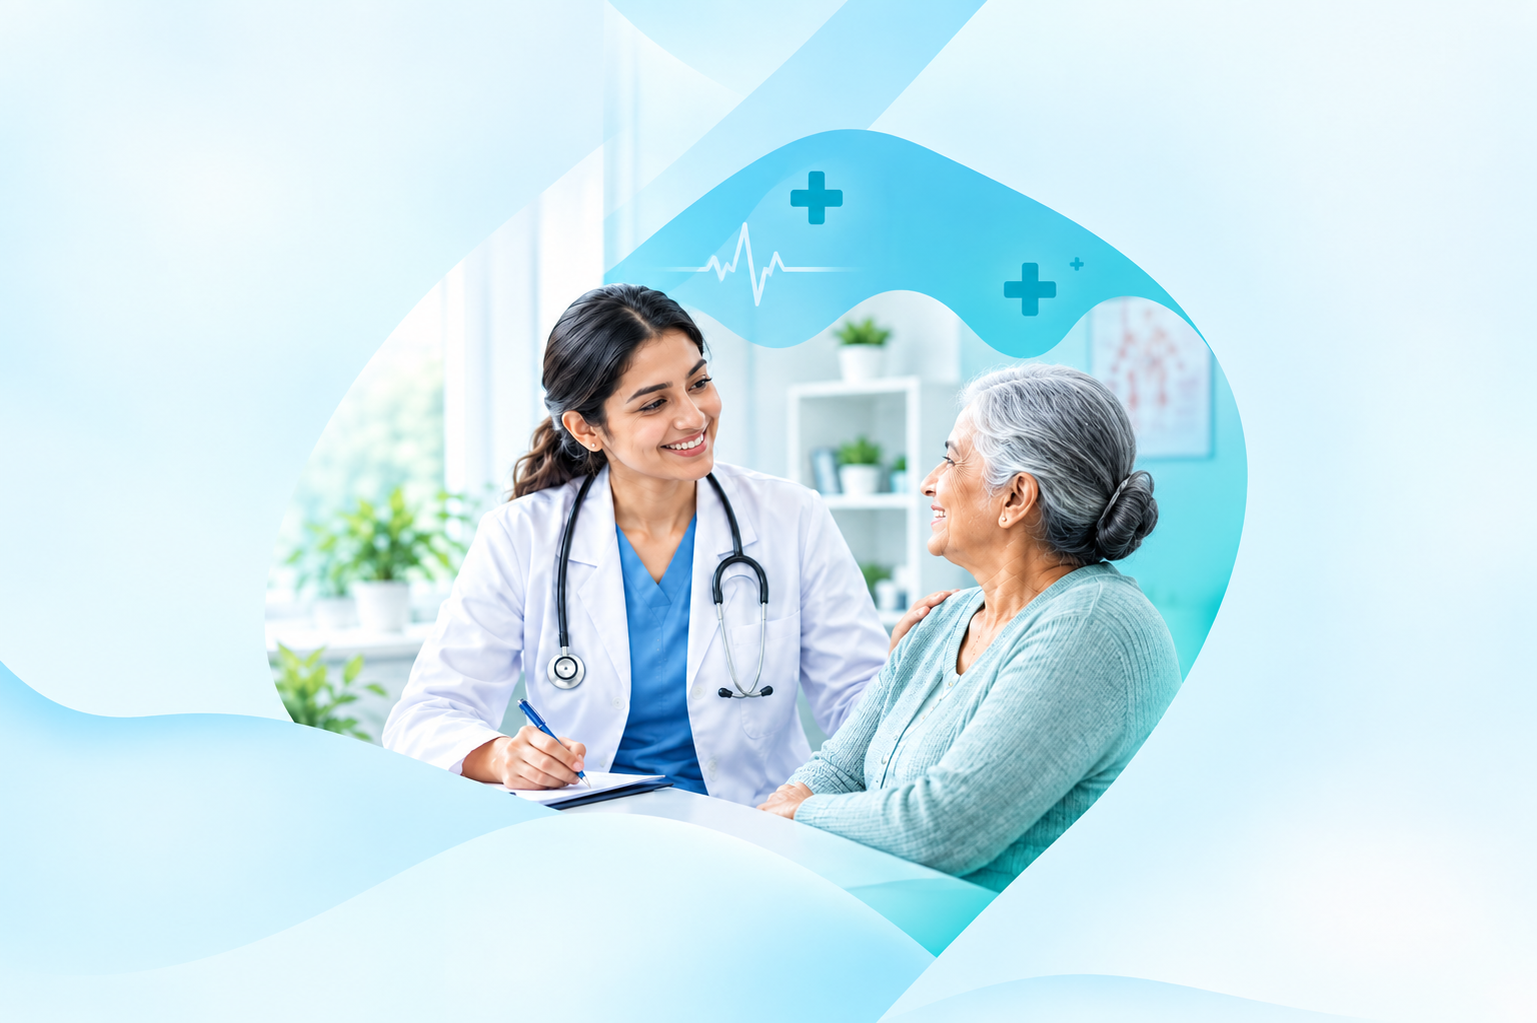
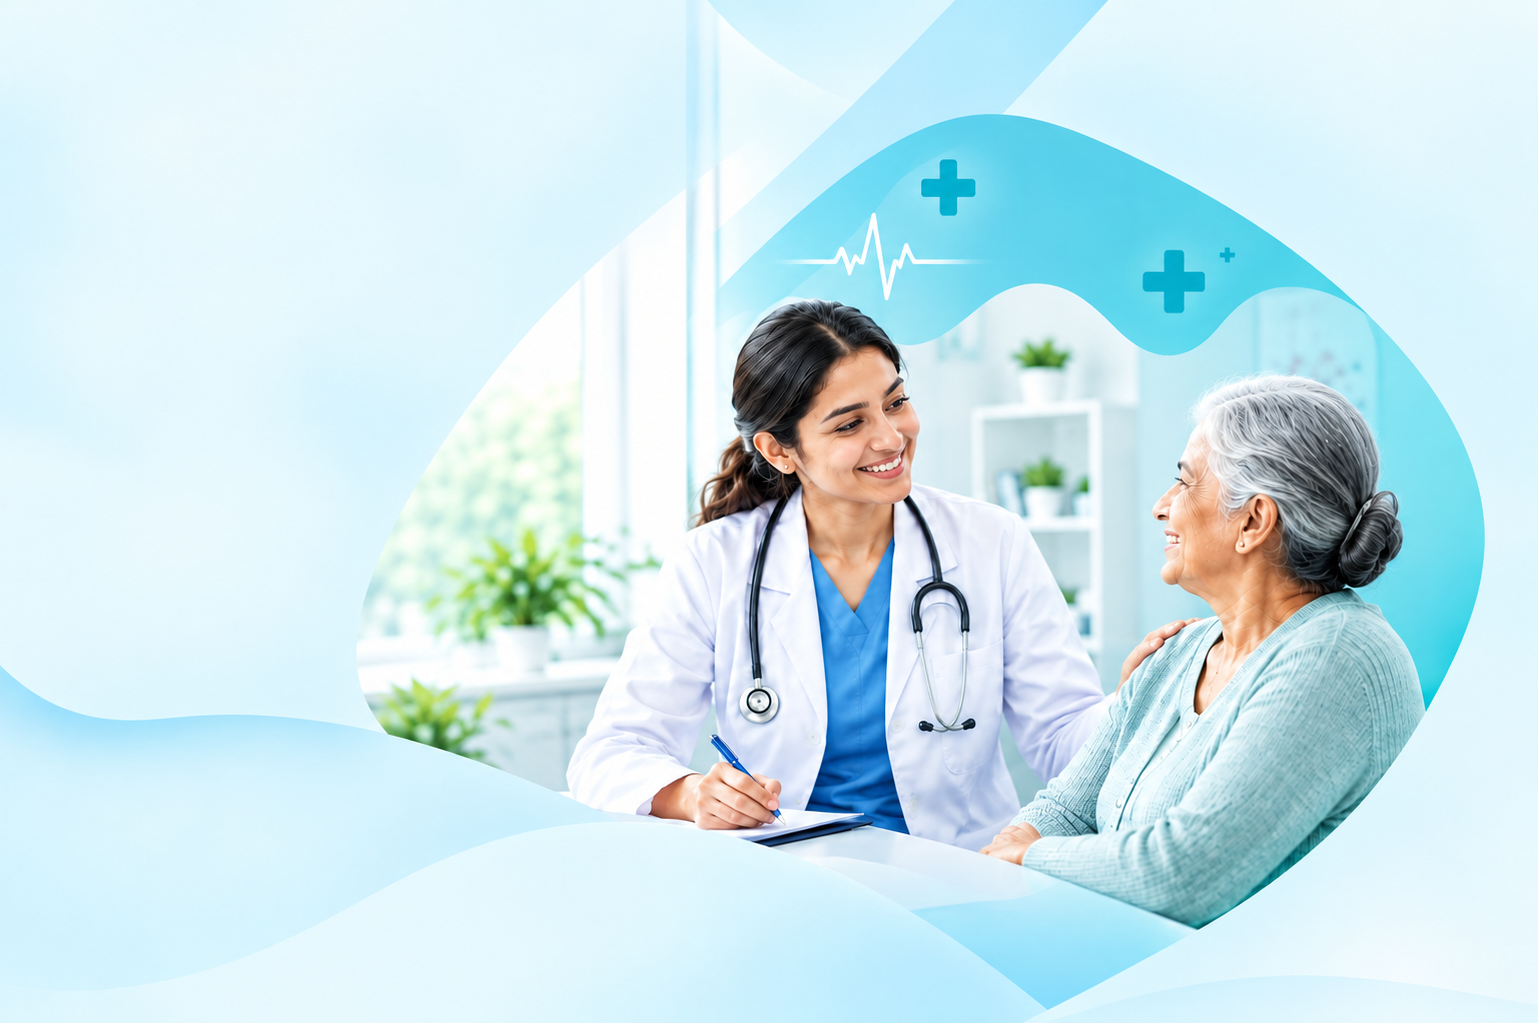
Login ui done signup is in progress

diff --git a/src/components/auth/SignupForm.jsx b/src/components/auth/SignupForm.jsx
@@ -1,0 +1,184 @@
+import React from 'react';
+import { useForm } from 'react-hook-form';
+
+export const SignupForm = () => {
+  const { 
+    register, 
+    handleSubmit, 
+    watch,
+    formState: { errors } 
+  } = useForm({
+    defaultValues: {
+      role: 'PATIENT' // Default form patient ke liye khulega
+    }
+  });
+
+  const selectedRole = watch('role');
+
+  const onSubmit = (data) => {
+    // API call se pehle data format theek karna (Data Sanitization)
+    if (data.doctorProfile && data.doctorProfile.yearOfPassing) {
+      data.doctorProfile.yearOfPassing = Number(data.doctorProfile.yearOfPassing);
+    }
+    
+    // Yahan tumhara poora JSON payload print hoga
+    console.log("🚀 Payload Ready for Backend:", data);
+    alert("Check browser console for the JSON data!");
+  };
+
+  return (
+    <div className="w-full max-w-2xl mx-auto p-8 bg-white rounded-xl shadow-lg mt-10 mb-10 border border-slate-100">
+      <div className="text-center mb-8">
+        <h2 className="text-3xl font-bold text-slate-800">Create NexCare Account</h2>
+        <p className="text-slate-500 mt-2">Join us to start your healthcare journey</p>
+      </div>
+
+      <form onSubmit={handleSubmit(onSubmit)} className="space-y-6">
+        
+        {/* --- 1. COMMON FIELDS --- */}
+        <div className="grid grid-cols-1 md:grid-cols-2 gap-4">
+          <div>
+            <label className="block text-sm font-medium text-slate-700 mb-1">First Name <span className="text-red-500">*</span></label>
+            <input 
+              type="text" 
+              placeholder="John"
+              {...register('firstName', { required: 'First Name is required' })} 
+              className={`w-full px-4 py-2 border rounded-lg focus:outline-none focus:ring-2 focus:ring-teal-500 ${errors.firstName ? 'border-red-500' : 'border-slate-300'}`}
+            />
+            {errors.firstName && <p className="text-xs text-red-500 mt-1">{errors.firstName.message}</p>}
+          </div>
+          <div>
+            <label className="block text-sm font-medium text-slate-700 mb-1">Last Name <span className="text-red-500">*</span></label>
+            <input 
+              type="text" 
+              placeholder="Doe"
+              {...register('lastName', { required: 'Last Name is required' })} 
+              className={`w-full px-4 py-2 border rounded-lg focus:outline-none focus:ring-2 focus:ring-teal-500 ${errors.lastName ? 'border-red-500' : 'border-slate-300'}`}
+            />
+            {errors.lastName && <p className="text-xs text-red-500 mt-1">{errors.lastName.message}</p>}
+          </div>
+        </div>
+
+        <div className="grid grid-cols-1 md:grid-cols-2 gap-4">
+          <div>
+            <label className="block text-sm font-medium text-slate-700 mb-1">Email Address <span className="text-red-500">*</span></label>
+            <input 
+              type="email" 
+              placeholder="john@example.com"
+              {...register('email', { required: 'Email is required' })} 
+              className={`w-full px-4 py-2 border rounded-lg focus:outline-none focus:ring-2 focus:ring-teal-500 ${errors.email ? 'border-red-500' : 'border-slate-300'}`}
+            />
+            {errors.email && <p className="text-xs text-red-500 mt-1">{errors.email.message}</p>}
+          </div>
+          <div>
+            <label className="block text-sm font-medium text-slate-700 mb-1">Phone Number <span className="text-red-500">*</span></label>
+            <input 
+              type="tel" 
+              placeholder="9876543210"
+              {...register('phoneNumber', { required: 'Phone Number is required' })} 
+              className={`w-full px-4 py-2 border rounded-lg focus:outline-none focus:ring-2 focus:ring-teal-500 ${errors.phoneNumber ? 'border-red-500' : 'border-slate-300'}`}
+            />
+            {errors.phoneNumber && <p className="text-xs text-red-500 mt-1">{errors.phoneNumber.message}</p>}
+          </div>
+        </div>
+
+        <div>
+          <label className="block text-sm font-medium text-slate-700 mb-1">Password <span className="text-red-500">*</span></label>
+          <input 
+            type="password" 
+            placeholder="Create a strong password"
+            {...register('password', { required: 'Password is required', minLength: { value: 6, message: 'Min 6 characters' } })} 
+            className={`w-full px-4 py-2 border rounded-lg focus:outline-none focus:ring-2 focus:ring-teal-500 ${errors.password ? 'border-red-500' : 'border-slate-300'}`}
+          />
+          {errors.password && <p className="text-xs text-red-500 mt-1">{errors.password.message}</p>}
+        </div>
+
+        {/* --- 2. ROLE SELECTION --- */}
+        <div className="bg-slate-50 p-5 rounded-lg border border-slate-200">
+          <label className="block text-base font-semibold text-slate-800 mb-3">I am registering as a:</label>
+          <div className="flex gap-6">
+            <label className="flex items-center gap-2 cursor-pointer bg-white px-4 py-2 rounded-md border shadow-sm hover:bg-slate-50">
+              <input type="radio" value="PATIENT" {...register('role')} className="text-teal-600 focus:ring-teal-500 w-4 h-4" />
+              <span className="font-medium text-slate-700">Patient</span>
+            </label>
+            <label className="flex items-center gap-2 cursor-pointer bg-white px-4 py-2 rounded-md border shadow-sm hover:bg-slate-50">
+              <input type="radio" value="DOCTOR" {...register('role')} className="text-teal-600 focus:ring-teal-500 w-4 h-4" />
+              <span className="font-medium text-slate-700">Doctor</span>
+            </label>
+          </div>
+        </div>
+
+        {/* --- 3. CONDITIONAL FIELDS: PATIENT --- */}
+        {selectedRole === 'PATIENT' && (
+          <div className="space-y-4 bg-teal-50/50 p-5 rounded-lg border border-teal-100 animate-in fade-in zoom-in duration-300">
+            <h3 className="font-semibold text-teal-800 border-b border-teal-200 pb-2">Patient Details</h3>
+            <div className="grid grid-cols-1 md:grid-cols-2 gap-4">
+              <div>
+                <label className="block text-sm font-medium text-slate-700 mb-1">Gender</label>
+                <select {...register('patientProfile.gender')} className="w-full px-4 py-2 border border-slate-300 rounded-lg focus:outline-none focus:ring-2 focus:ring-teal-500 bg-white">
+                  <option value="MALE">Male</option>
+                  <option value="FEMALE">Female</option>
+                  <option value="OTHER">Other</option>
+                </select>
+              </div>
+              <div>
+                <label className="block text-sm font-medium text-slate-700 mb-1">Date of Birth</label>
+                <input type="date" {...register('patientProfile.dateOfBirth')} className="w-full px-4 py-2 border border-slate-300 rounded-lg focus:outline-none focus:ring-2 focus:ring-teal-500 bg-white" />
+              </div>
+            </div>
+          </div>
+        )}
+
+        {/* --- 4. CONDITIONAL FIELDS: DOCTOR --- */}
+        {selectedRole === 'DOCTOR' && (
+          <div className="space-y-4 bg-blue-50/50 p-5 rounded-lg border border-blue-100 animate-in fade-in zoom-in duration-300">
+            <h3 className="font-semibold text-blue-800 border-b border-blue-200 pb-2">Professional Details</h3>
+            <div className="grid grid-cols-1 md:grid-cols-2 gap-4">
+              <div>
+                <label className="block text-sm font-medium text-slate-700 mb-1">Registration No.</label>
+                <input type="text" {...register('doctorProfile.medicalRegistrationNumber')} placeholder="MPMC-2026-10001" className="w-full px-4 py-2 border border-slate-300 rounded-lg focus:ring-2 focus:ring-blue-500" />
+              </div>
+              <div>
+                <label className="block text-sm font-medium text-slate-700 mb-1">Medical Council</label>
+                <input type="text" {...register('doctorProfile.medicalCouncil')} placeholder="M.P. Medical Council" className="w-full px-4 py-2 border border-slate-300 rounded-lg focus:ring-2 focus:ring-blue-500" />
+              </div>
+              <div>
+                <label className="block text-sm font-medium text-slate-700 mb-1">Registration Date</label>
+                <input type="date" {...register('doctorProfile.registrationDate')} className="w-full px-4 py-2 border border-slate-300 rounded-lg focus:ring-2 focus:ring-blue-500" />
+              </div>
+              <div>
+                <label className="block text-sm font-medium text-slate-700 mb-1">Specialization</label>
+                <input type="text" {...register('doctorProfile.specialization')} placeholder="Cardiologist" className="w-full px-4 py-2 border border-slate-300 rounded-lg focus:ring-2 focus:ring-blue-500" />
+              </div>
+              <div>
+                <label className="block text-sm font-medium text-slate-700 mb-1">Primary Qualification</label>
+                <input type="text" {...register('doctorProfile.primaryQualification')} placeholder="MBBS" className="w-full px-4 py-2 border border-slate-300 rounded-lg focus:ring-2 focus:ring-blue-500" />
+              </div>
+              <div>
+                <label className="block text-sm font-medium text-slate-700 mb-1">Additional Qualification</label>
+                <input type="text" {...register('doctorProfile.additionalQualification')} placeholder="MD Medicine" className="w-full px-4 py-2 border border-slate-300 rounded-lg focus:ring-2 focus:ring-blue-500" />
+              </div>
+              <div>
+                <label className="block text-sm font-medium text-slate-700 mb-1">Year of Passing</label>
+                <input type="number" {...register('doctorProfile.yearOfPassing')} placeholder="2018" className="w-full px-4 py-2 border border-slate-300 rounded-lg focus:ring-2 focus:ring-blue-500" />
+              </div>
+              <div>
+                <label className="block text-sm font-medium text-slate-700 mb-1">Place of Work</label>
+                <input type="text" {...register('doctorProfile.placeOfWork')} placeholder="City Care Hospital" className="w-full px-4 py-2 border border-slate-300 rounded-lg focus:ring-2 focus:ring-blue-500" />
+              </div>
+            </div>
+          </div>
+        )}
+
+        <button type="submit" className="w-full bg-teal-600 text-white font-bold text-lg py-3 px-4 rounded-lg hover:bg-teal-700 transition-colors duration-200 mt-6 shadow-md">
+          Complete Registration
+        </button>
+      </form>
+
+      <div className="mt-8 text-center text-sm text-slate-600 border-t pt-6">
+        Already have an account? <span className="text-teal-600 font-semibold cursor-pointer hover:underline">Log in</span>
+      </div>
+    </div>
+  );
+};
+export default SignupForm

diff --git a/src/components/auth/LoginHero.jsx b/src/components/auth/LoginHero.jsx
@@ -4,17 +4,18 @@ import nexcareLogo from '../../assets/logo/nexcare-logo.svg';
 function LoginHero() {
     return (
         <section
-            className="relative hidden lg:flex flex-col justify-between h-full overflow-hidden px-12 py-10 xl:px-20 bg-cover"
+            // Removed rigid negative percentages (-80%)
+            // Using fluid bg-center and shifting slightly right on smaller laptops
+            className="relative flex flex-col justify-between h-full overflow-hidden px-8 lg:px-10 py-10 xl:px-16 bg-cover bg-no-repeat bg-[position:65%_center] xl:bg-center"
             style={{
                 backgroundImage: `url(${doctorPatientImage})`,
-                backgroundPosition: '-80% center',
             }}
         >
-            {/* Gradient overlay for text readability — sits above image, below content */}
+            {/* Gradient overlay for text readability */}
             <div
                 className="absolute inset-0 pointer-events-none"
                 style={{
-                    background: 'linear-gradient(90deg, rgba(239,252,253,0.5) 0%, rgba(239,252,253,0.5) 35%, rgba(239,252,253,0.3) 55%, rgba(239,252,253,0) 80%)',
+                    background: 'linear-gradient(90deg, rgba(239,252,253,0.9) 1%, rgba(239,252,253,0.9) 35%, rgba(239,252,253,0.2) 60%, rgba(239,252,253,0) 100%)',
                 }}
             />
 
@@ -22,93 +23,90 @@ function LoginHero() {
             <div className="relative z-10">
                 <img
                     src={nexcareLogo}
-                    alt="NexCare - Better Health, Brighter Tomorrow"
-                    className="h-16 w-auto"
+                    alt="NexCare"
+                    className="h-12 xl:h-16 w-auto"
                 />
             </div>
 
             {/* Heading + description + features */}
-            <div className="relative z-10 mt-8 xl:mt-10 max-w-[480px]">
+            <div className="relative z-10 mt-8 max-w-[480px]">
 
-                <h1 className="text-5xl xl:text-[56px] font-extrabold leading-[1.05] tracking-tight text-[#0B2D5C]">
+                <h1 className="text-4xl xl:text-[56px] font-extrabold leading-[1.05] tracking-tight text-[#0B2D5C]">
                     Your Health
                     <br />
                     <span className="text-[#10A9A5]">Our Priority</span>
                 </h1>
 
-                <p className="mt-7 max-w-[430px] text-lg leading-7 text-[#47719D]">
+                <p className="mt-6 max-w-[380px] text-base xl:text-lg leading-7 text-[#47719D]">
                     Book appointments, manage your profile,
                     and get quality healthcare — all in one place.
                 </p>
 
-                <div className="mt-6 space-y-4">
-
+                <div className="mt-6 xl:mt-8 space-y-4 xl:space-y-5">
                     {/* Feature 1 */}
                     <div className="flex items-center gap-4">
-                        <div className="flex h-12 w-12 items-center justify-center rounded-full border border-cyan-200 bg-white/70 backdrop-blur">
+                        <div className="flex shrink-0 h-10 w-10 xl:h-12 xl:w-12 items-center justify-center rounded-full border border-cyan-200 bg-white/70 backdrop-blur">
                             <svg className="w-5 h-5 text-[#0BA5A8]" fill="none" viewBox="0 0 24 24" stroke="currentColor" strokeWidth={2}>
                                 <path strokeLinecap="round" strokeLinejoin="round" d="M9 12l2 2 4-4m5.618-4.016A11.955 11.955 0 0112 2.944a11.955 11.955 0 01-8.618 3.04A12.02 12.02 0 003 9c0 5.591 3.824 10.29 9 11.622 5.176-1.332 9-6.03 9-11.622 0-1.042-.133-2.052-.382-3.016z" />
                             </svg>
                         </div>
                         <div>
-                            <p className="font-semibold text-[#0B2D5C]">Trusted Care</p>
-                            <p className="text-sm text-[#5B82AA]">Verified & experienced doctors</p>
+                            <p className="font-semibold text-sm xl:text-base text-[#0B2D5C]">Trusted Care</p>
+                            <p className="text-xs xl:text-sm text-[#5B82AA]">Verified & experienced doctors</p>
                         </div>
                     </div>
 
                     {/* Feature 2 */}
                     <div className="flex items-center gap-4">
-                        <div className="flex h-12 w-12 items-center justify-center rounded-full border border-cyan-200 bg-white/70 backdrop-blur">
+                        <div className="flex shrink-0 h-10 w-10 xl:h-12 xl:w-12 items-center justify-center rounded-full border border-cyan-200 bg-white/70 backdrop-blur">
                             <svg className="w-5 h-5 text-[#0BA5A8]" fill="none" viewBox="0 0 24 24" stroke="currentColor" strokeWidth={2}>
                                 <path strokeLinecap="round" strokeLinejoin="round" d="M12 8v4l3 3m6-3a9 9 0 11-18 0 9 9 0 0118 0z" />
                             </svg>
                         </div>
                         <div>
-                            <p className="font-semibold text-[#0B2D5C]">Easy Booking</p>
-                            <p className="text-sm text-[#5B82AA]">Book appointments in minutes</p>
+                            <p className="font-semibold text-sm xl:text-base text-[#0B2D5C]">Easy Booking</p>
+                            <p className="text-xs xl:text-sm text-[#5B82AA]">Book appointments in minutes</p>
                         </div>
                     </div>
 
                     {/* Feature 3 */}
                     <div className="flex items-center gap-4">
-                        <div className="flex h-12 w-12 items-center justify-center rounded-full border border-cyan-200 bg-white/70 backdrop-blur">
+                        <div className="flex shrink-0 h-10 w-10 xl:h-12 xl:w-12 items-center justify-center rounded-full border border-cyan-200 bg-white/70 backdrop-blur">
                             <svg className="w-5 h-5 text-[#0BA5A8]" fill="none" viewBox="0 0 24 24" stroke="currentColor" strokeWidth={2}>
                                 <path strokeLinecap="round" strokeLinejoin="round" d="M4.318 6.318a4.5 4.5 0 000 6.364L12 20.364l7.682-7.682a4.5 4.5 0 00-6.364-6.364L12 7.636l-1.318-1.318a4.5 4.5 0 00-6.364 0z" />
                             </svg>
                         </div>
                         <div>
-                            <p className="font-semibold text-[#0B2D5C]">Better Health</p>
-                            <p className="text-sm text-[#5B82AA]">Your wellness, our mission</p>
+                            <p className="font-semibold text-sm xl:text-base text-[#0B2D5C]">Better Health</p>
+                            <p className="text-xs xl:text-sm text-[#5B82AA]">Your wellness, our mission</p>
                         </div>
                     </div>
-
                 </div>
             </div>
 
-            {/* Handwritten-style accent text */}
-            <p
-                className="relative z-10 mt-4 text-2xl text-[#0FA8A0] -rotate-3"
-                style={{ fontFamily: "'Segoe Script', 'Brush Script MT', cursive" }}
-            >
-                Healthcare Made Simple <span className="inline-block">♡</span>
-            </p>
+            {/* Bottom section with handwritten text & stats */}
+            <div className="relative z-10 mt-auto">
+                <p
+                    className="mt-4 mb-2 text-xl xl:text-2xl text-[#0FA8A0] -rotate-3 w-fit"
+                    style={{ fontFamily: "'Segoe Script', 'Brush Script MT', cursive" }}
+                >
+                    Healthcare Made Simple <span className="inline-block">♡</span>
+                </p>
 
-            {/* Bottom stats card */}
-            <div className="relative z-10 mt-3 mb-4">
-                <div className="flex items-center gap-8 rounded-2xl border border-white/70 bg-white/45 px-8 py-5 backdrop-blur-md w-fit">
+                <div className="flex items-center gap-4 xl:gap-8 rounded-2xl border border-white/70 bg-white/45 px-4 xl:px-8 py-3 xl:py-4 backdrop-blur-md w-fit mt-2">
                     <div>
-                        <p className="text-xl font-bold text-[#0B2D5C]">10K+</p>
-                        <p className="text-sm text-[#52789E]">Happy Patients</p>
+                        <p className="text-lg xl:text-xl font-bold text-[#0B2D5C]">10K+</p>
+                        <p className="text-xs xl:text-sm text-[#52789E]">Happy Patients</p>
                     </div>
-                    <div className="h-10 w-px bg-[#9CCDD5]" />
+                    <div className="h-8 xl:h-10 w-px bg-[#9CCDD5]" />
                     <div>
-                        <p className="text-xl font-bold text-[#0B2D5C]">500+</p>
-                        <p className="text-sm text-[#52789E]">Verified Doctors</p>
+                        <p className="text-lg xl:text-xl font-bold text-[#0B2D5C]">500+</p>
+                        <p className="text-xs xl:text-sm text-[#52789E]">Verified Doctors</p>
                     </div>
-                    <div className="h-10 w-px bg-[#9CCDD5]" />
+                    <div className="h-8 xl:h-10 w-px bg-[#9CCDD5]" />
                     <div>
-                        <p className="text-xl font-bold text-[#0B2D5C]">4.8/5</p>
-                        <p className="text-sm text-[#52789E]">Patient Satisfaction</p>
+                        <p className="text-lg xl:text-xl font-bold text-[#0B2D5C]">4.8/5</p>
+                        <p className="text-xs xl:text-sm text-[#52789E]">Patient Satisfaction</p>
                     </div>
                 </div>
             </div>

diff --git a/src/components/auth/LoginForm.jsx b/src/components/auth/LoginForm.jsx
@@ -1,0 +1,27 @@
+import React from 'react'
+import LoginCard from './LoginCard'
+const LoginForm = () => {
+  return (
+    <div className="flex-1 flex flex-col h-screen overflow-y-auto">
+                
+                {/* Top Nav (Support Links) */}
+                <div className="hidden sm:flex justify-end items-center gap-4 px-6 lg:px-10 py-5 text-sm font-medium text-[#0B2D5C] shrink-0">
+                    <span className="flex items-center gap-2 cursor-pointer hover:text-[#10A9A5] transition-colors">
+                        🎧 Need help?
+                    </span>
+                    <span className="h-4 w-px bg-slate-300" />
+                    <span className="flex items-center gap-2 cursor-pointer hover:text-[#10A9A5] transition-colors">
+                        🔄 Contact Support
+                    </span>
+                </div>
+
+                {/* Form Container */}
+                <div className="flex-1 flex items-center justify-center px-6 sm:px-10 lg:px-12 xl:px-16 pb-10 pt-4">
+                    <LoginCard />
+                </div>
+                
+    </div>
+  )
+}
+
+export default LoginForm

diff --git a/src/pages/SignupPage.jsx b/src/pages/SignupPage.jsx
@@ -1,9 +1,9 @@
-
+import LoginCard from '../components/auth/LoginCard';
 import LoginForm from '../components/auth/LoginForm';
 import LoginHero from '../components/auth/LoginHero';
-
-function LoginPage() {
-    return (
+import SignupForm from '../components/auth/SignupForm';
+const SignupPage = () => {
+   return (
         // Added responsive grid columns to ensure form never squishes on small laptops
         <div className="min-h-screen flex flex-col lg:grid lg:grid-cols-[1.1fr_1fr] xl:grid-cols-[1.3fr_1fr] 2xl:grid-cols-[1.45fr_1fr] bg-white overflow-hidden">
             
@@ -13,9 +13,9 @@ function LoginPage() {
             </div>
 
             {/* Right Side - Login Form */}
-            <LoginForm/>
+            <SignupForm/>
         </div>
     );
 }
 
-export default LoginPage;
+export default SignupPage

diff --git a/src/App.jsx b/src/App.jsx
@@ -1,5 +1,6 @@
 import React from 'react'
 import LoginPage from './pages/LoginPage'
+import SignupPage from './pages/SignupPage'
 
 const App = () => {
   return (
